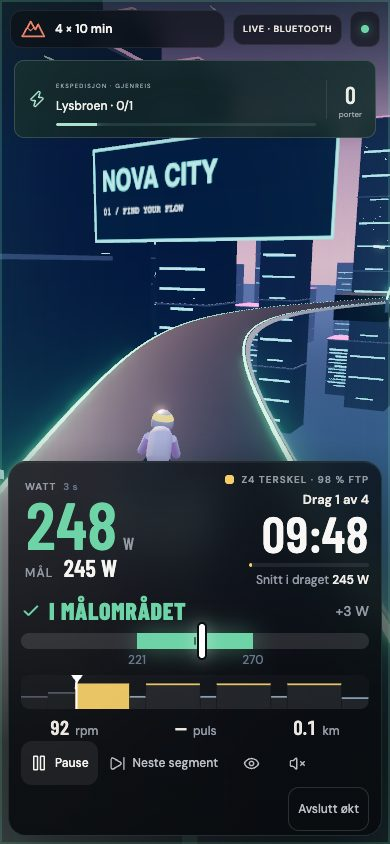
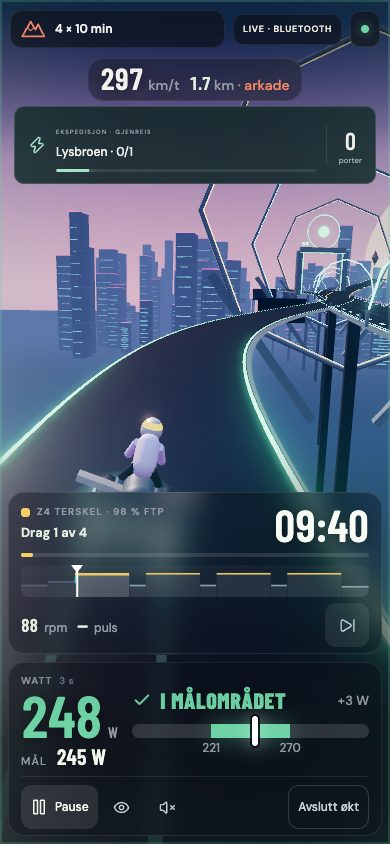
Final cockpit layout, ride-action smoke test and refreshed screenshots
- Interval actions (next segment, done warming up, ramp exhaustion) moved to
  the interval panel; the left toolbar keeps pause, view and end controls.
- Graph: neutral blocks with zone caps so the zone-coloured trace reads; no
  olive fills. Phone layout compressed to keep the scene visible.
- Tests: sensor-smoke reads distance from the speed capsule; expedition and
  Vestland smokes wait for asynchronous IndexedDB/API persistence; new
  ride-actions smoke covers discard and delete end to end.
- README, screenshots and social preview show the new cockpit.

diff --git a/src/cockpit.css b/src/cockpit.css
@@ -207,7 +207,7 @@
 .cockpit-graph svg { display: block; width: 100%; height: 100%; }
 .cockpit-graph .block-body { fill: #ffffff; fill-opacity: 0.08; transition: fill-opacity 0.4s; }
 .cockpit-graph .past .block-body { fill-opacity: 0.04; }
-.cockpit-graph .now .block-body { fill-opacity: 0.55; }
+.cockpit-graph .now .block-body { fill-opacity: 0.2; }
 .cockpit-graph .block-cap { opacity: 0.95; }
 .cockpit-graph .past .block-cap { fill: #5d6879; opacity: 0.8; }
 .graph-trace { fill: none; stroke-width: 2px; stroke-linejoin: round; stroke-linecap: round; filter: drop-shadow(0 0 2px rgba(0, 0, 0, 0.5)); }
@@ -218,6 +218,16 @@
 }
 
 /* metrics + controls */
+/* Interval actions live with the interval: right panel, above the metrics. */
+.cockpit .hud-actions { display: flex; justify-content: flex-end; gap: 6px; margin-top: 8px; }
+.cockpit .hud-actions:empty { display: none; }
+.cockpit .hud-actions > button {
+  display: inline-flex; align-items: center; gap: 7px; min-height: 40px; padding: 0 12px; border-radius: 11px;
+  font: 500 13px "DM Sans", sans-serif; color: #c5ced8; background: rgba(255, 255, 255, 0.08); white-space: nowrap;
+}
+.cockpit .hud-actions > button:hover { background: rgba(255, 255, 255, 0.14); color: #fff; }
+.cockpit .hud-actions > .warmup-skip { background: rgba(244, 132, 104, 0.16); color: var(--accent); }
+.cockpit .hud-actions > button.ramp-exhaustion { color: #141820; background: #f6a18b; font-weight: 750; min-height: 48px; }
 .cockpit .secondary-metrics { display: flex; align-items: baseline; gap: 16px; margin-top: 8px; font: 500 12px "DM Sans", sans-serif; color: var(--hud-muted); white-space: nowrap; }
 .cockpit .secondary-metrics b { font: 600 21px "Barlow Condensed", sans-serif; color: #e3eedf; margin-right: 3px; font-variant-numeric: tabular-nums; }
 .cockpit .ride-toolbar { display: flex; align-items: center; gap: 2px; margin-top: 10px; padding-top: 8px; border-top: 1px solid rgba(255, 255, 255, 0.08); transition: opacity 0.3s; }
@@ -231,7 +241,6 @@
 .cockpit .ride-toolbar > button:hover,
 .cockpit .ride-detail > summary:hover { background: rgba(255, 255, 255, 0.1); color: #fff; }
 .cockpit .ride-toolbar > .console-pause { background: rgba(255, 255, 255, 0.1); color: #f2f9ec; }
-.cockpit .ride-toolbar > .warmup-skip { background: rgba(244, 132, 104, 0.16); color: var(--accent); }
 .cockpit .ride-toolbar > .end-ride { border: 1px solid rgba(255, 255, 255, 0.16); }
 .cockpit .ride-toolbar > button[aria-pressed="true"] { color: var(--accent); background: rgba(244, 132, 104, 0.12); }
 .cockpit .ride-detail { position: relative; }
@@ -330,7 +339,7 @@
   .cockpit-next { display: none !important; }
   .cockpit .metric-wide { display: none; }
   .cockpit .ride-toolbar > button span { display: none; }
-  .cockpit .ride-toolbar > .warmup-skip span, .cockpit .ride-toolbar > .console-pause span { display: inline; }
+  .cockpit .ride-toolbar > .console-pause span { display: inline; }
 }
 
 /* ---------- phone ---------- */
@@ -367,7 +376,8 @@
   .cockpit .secondary-metrics b { font-size: 18px; }
   .cockpit .ride-toolbar { flex-wrap: wrap; gap: 2px; opacity: 1; margin-top: 8px; }
   .cockpit .ride-toolbar > button, .cockpit .ride-detail > summary { padding: 0 9px; font-size: 12px; }
-  .cockpit .ride-toolbar > .warmup-skip { order: 9; flex-basis: 100%; min-height: 40px; }
+  .cockpit .hud-actions { justify-content: stretch; }
+  .cockpit .hud-actions > button { flex: 1; justify-content: center; min-height: 44px; }
   .cockpit .ride-toolbar > button[aria-label="Fullskjerm"], .cockpit .ride-detail { display: none; }
   .cockpit .console-spacer { display: none; }
   .cockpit .ride-toolbar > .end-ride { margin-left: auto; }
@@ -375,10 +385,25 @@
   .speed-capsule strong, .speed-capsule.arcade strong { font-size: 30px; }
   .speed-capsule .hud-distance b { font-size: 18px; }
 
+  /* Phone: the interval panel collapses to one dense row set; the scene keeps as much height as possible. */
+  .cockpit .hud-right { display: grid; grid-template-columns: minmax(0, 1fr) auto; column-gap: 8px; align-items: center; }
+  .cockpit .hud-right > .hud-interval, .cockpit .hud-right > .cockpit-graph { grid-column: 1 / -1; }
+  .cockpit .hud-right > .hud-actions { grid-column: 2; grid-row: 3; margin-top: 6px; }
+  .cockpit .hud-right > .secondary-metrics { grid-column: 1; grid-row: 3; justify-content: flex-start; margin-top: 6px; }
+  .cockpit .hud-actions > button { flex: none; min-height: 44px; min-width: 44px; padding: 0 10px; justify-content: center; }
+  .cockpit .hud-actions > .skip-segment span { display: none; }
+  .cockpit .hud-interval { grid-template-columns: 1fr; }
+  .cockpit .interval-focus { display: grid; grid-template-columns: minmax(0, 1fr) auto; column-gap: 10px; }
+  .cockpit .interval-focus > .cockpit-eyebrow, .cockpit .interval-focus > .interval-label { grid-column: 1; }
+  .cockpit .interval-focus > strong { grid-column: 2; grid-row: 1 / span 2; align-self: center; }
+  .cockpit .interval-focus > .block-progress, .cockpit .interval-focus > small { grid-column: 1 / -1; }
+  .cockpit .interval-focus > .lap-average { display: none; }
+  .app.is-riding .expedition-hud, .app.is-riding .classic-progress { top: 106px; }
+  .app.is-riding .expedition-choice { top: 106px; }
   .cockpit-countdown { top: 34%; }
   .cockpit-countdown strong { font-size: 128px; }
   .cockpit-countdown b { font-size: 36px; }
-  .lap-receipt { top: 104px; left: 10px; right: 10px; transform: none; padding: 10px 14px 10px 10px; gap: 12px; animation-name: lap-in-mobile; }
+  .lap-receipt { top: 106px; left: 10px; right: 10px; transform: none; padding: 10px 14px 10px 10px; gap: 12px; animation-name: lap-in-mobile; }
   .lap-receipt strong { font-size: 22px; }
   .lap-receipt em { display: none; }
   .lap-receipt > b { font-size: 26px; padding-left: 12px; margin-left: auto; }

diff --git a/src/RideConsole.tsx b/src/RideConsole.tsx
@@ -66,8 +66,8 @@ function WorkoutGraph({ workout, samples, ftp, progress, index }: { workout: Wor
         const w = Math.max(gap, block.seconds - gap), state = i < index ? 'past' : i === index ? 'now' : 'future';
         // Neutral bodies with a zone-coloured cap: low-opacity zone fills turn muddy on dark glass.
         return <g key={i} className={state}>
-          <rect x={starts[i]} y={100 - h} width={w} height={h} className="block-body" style={state === 'now' ? { fill: zoneColor(block.intensity) } : undefined} />
-          {state !== 'now' && <rect x={starts[i]} y={100 - h} width={w} height={Math.min(h, 5)} className="block-cap" fill={zoneColor(block.intensity)} />}
+          <rect x={starts[i]} y={100 - h} width={w} height={h} className="block-body" />
+          <rect x={starts[i]} y={100 - h} width={w} height={Math.min(h, state === 'now' ? 8 : 5)} className="block-cap" fill={zoneColor(block.intensity)} />
         </g>;
       })}
       {trace && <path d={trace} className="graph-trace" style={{ stroke: `url(#${gradientId})` }} vectorEffect="non-scaling-stroke" />}
@@ -179,9 +179,6 @@ export default function RideConsole({ workout, current, elapsed, skippedSeconds,
         </div>
         <div className="ride-toolbar">
           <button onClick={onPause} className="console-pause">{running ? <Pause size={18} /> : <Play size={18} />}<span>{running ? 'Pause' : 'Fortsett'}</span></button>
-          {!rampStatus && <button onClick={onSkip}><SkipForward size={17} /><span>Neste segment</span></button>}
-          {rampStatus && block.kind==='work' && !rampStatus.ended && <button onClick={onSkip} className="ramp-exhaustion" disabled={!running}>Jeg klarer ikke mer</button>}
-          {!rampStatus && block.kind === 'warmup' && <button onClick={onWarmup} className="warmup-skip"><Check size={16} /><span>Jeg er ferdig oppvarmet</span></button>}
           <div className="console-spacer" />
           <button onClick={onFocus} aria-pressed={focus} aria-label={focus ? 'Vis spillpaneler' : 'Fokusmodus'} title="Fokusmodus (H)">{focus ? <EyeOff size={17} /> : <Eye size={17} />}</button>
           <button onClick={onSound} aria-label={sound ? 'Slå av lyd' : 'Slå på lyd'}>{sound ? <Volume2 size={17} /> : <VolumeX size={17} />}</button>
@@ -218,6 +215,11 @@ export default function RideConsole({ workout, current, elapsed, skippedSeconds,
           </div>
         </div>
         <WorkoutGraph workout={workout} samples={samples} ftp={ftp} progress={current.progress} index={current.index} />
+        <div className="hud-actions">
+          {!rampStatus && block.kind === 'warmup' && <button onClick={onWarmup} className="warmup-skip"><Check size={16} /><span>Jeg er ferdig oppvarmet</span></button>}
+          {!rampStatus && <button onClick={onSkip} className="skip-segment" aria-label="Neste segment"><SkipForward size={17} /><span>Neste segment</span></button>}
+          {rampStatus && block.kind==='work' && !rampStatus.ended && <button onClick={onSkip} className="ramp-exhaustion" disabled={!running}>Jeg klarer ikke mer</button>}
+        </div>
         <div className="secondary-metrics">
           <span><b>{cadence ?? '—'}</b> rpm</span>
           <span><b>{heartRate && heartRate > 0 ? heartRate : '—'}</b> puls</span>

diff --git a/index.html b/index.html
@@ -19,7 +19,7 @@
     <meta property="og:image" content="https://summit-sykkel.vercel.app/og.jpg" />
     <meta property="og:image:width" content="1200" />
     <meta property="og:image:height" content="630" />
-    <meta property="og:image:alt" content="SUMMIT-cockpiten på Vestlandsveien: 249 watt, i målområdet midt i et terskeldrag." />
+    <meta property="og:image:alt" content="SUMMIT-cockpiten på Vestlandsveien: 248 watt, i målområdet midt i et terskeldrag, sett fra styret." />
     <meta name="twitter:card" content="summary_large_image" />
     <meta name="twitter:title" content="SUMMIT – intervalltrening på sykkel, rett i nettleseren" />
     <meta name="twitter:description" content="100 strukturerte økter med wattmål fra din FTP. Koble til Bluetooth-sykkelen i Chrome eller Edge og sykle. Gratis, uten konto." />

diff --git a/README.md b/README.md
@@ -1,6 +1,6 @@
 <div align="center">
 
-<img src="docs/screenshots/hero-vestland.jpg" alt="SUMMIT ride cockpit on Vestlandsveien, a fjord road rendered in real time" width="100%">
+<img src="docs/screenshots/hero-vestland.jpg" alt="SUMMIT on Vestlandsveien: handlebar view with the training panels at the edges" width="100%">
 
 # SUMMIT
 
@@ -21,7 +21,10 @@ It is built for bikes without automatic resistance control as well as smart trai
 - Power as a 3-second average, next to a ±10 % target band. Instead of a raw number to interpret, it tells you what to do: *Øk 24 W* (push 24 W) or *Senk 18 W* (ease off 18 W).
 - The screen edge glows green, blue or amber, so you know whether you are on target without looking at the numbers.
 - Big 3‑2‑1 countdown with the next target, a short receipt after every completed interval, and the whole plan drawn with your actual power on top.
-- Focus mode (`H`) hides every game element and leaves only the training.
+- Two transparent glass panels sit at the screen edges, so the centre stays free for the road, the bike and the handlebar.
+- Speed and distance at the top. Speed follows watts relative to FTP with real inertia: a surge is felt as acceleration, easing off rolls out.
+- **Automatic resistance (ERG)** for smart trainers that support FTMS control: the target changes at every block, never every second, and switches off safely on pause or disconnect.
+- Focus mode (`H`) hides every game element and leaves only the training. A ride can be discarded without saving.
 
 **Training**
 - 100 structured workouts across recovery, endurance, tempo, sweet spot, threshold, VO₂max, anaerobic and sprint.
@@ -32,7 +35,8 @@ It is built for bikes without automatic resistance control as well as smart trai
 - A full-page report: an honest one-line verdict, normalized power, IF and TSS calculated from measured watts, and an interactive power chart coloured by training zone.
 - One card per interval, plus pacing feedback (*"power dropped 6 points from the first to the last interval"*).
 - Weekly load for the last eight weeks, rolling 28-day comparison, and a mean-maximal power curve from 5 s to 60 min.
-- FIT export through Garmin's official SDK, plus CSV and JSON.
+- FIT export through Garmin's official SDK (encoded in the browser), plus CSV and JSON.
+- A share card (1080×1350 image) for Strava or Instagram, and rides can be deleted from their report.
 
 **Worlds**
 - Seven real-time 3D worlds in Three.js with WebGPU and automatic WebGL2 fallback:
@@ -41,21 +45,22 @@ It is built for bikes without automatic resistance control as well as smart trai
   - **Neon Rush:** a hover-bike city.
   - **Skybound:** floating islands.
   - **Three classic fjord routes.**
+- Road worlds keep believable speeds (about 40 km/h at FTP). The futuristic worlds run on arcade speed: about 300 km/h at FTP and far beyond in a sprint, with a widening field of view and a camera that pulls back as you surge. Arcade speed is presentation only; the ride stores virtual distance from watts.
 - The game layer follows the training plan. Rewards come only from seconds within the target, including during recovery. Riding harder than prescribed earns nothing extra.
 
 **Data you can trust**
 - Skipped time never counts as ridden.
 - Data gaps stay gaps; they are never filled with zeros or approved seconds.
 - Demo rides are clearly labelled and never count towards records, FTP or progression.
-- Rides are stored locally (browser storage plus a local SQLite database). Training data is never sent anywhere.
+- Rides are stored on your device: IndexedDB in the browser, plus a local SQLite database when the optional Node backend runs. Training data is never sent anywhere. Backup and import are one click.
 - The hosted version counts a few anonymous, cookie-free usage events (bucketed, no IDs, no watts or FTP), explained under *Personvern* in the app. Local and development builds send nothing.
 
 ## Screenshots
 
 | | |
 |---|---|
-| <img src="docs/screenshots/cockpit-tron.jpg" alt="On target in The Grid"> | <img src="docs/screenshots/cockpit-under.jpg" alt="Below target: the cue says push 49 W"> |
-| **On target.** Green band, green number, calm edge glow. | **Below target.** The cue tells you exactly how much to add. |
+| <img src="docs/screenshots/cockpit-tron.jpg" alt="On target in The Grid at 297 km/h arcade speed"> | <img src="docs/screenshots/cockpit-surge.jpg" alt="A surge to 380 W: 529 km/h and the cue says ease off 135 W"> |
+| **On target.** Green band, green number, calm edge glow; arcade speed at the top. | **A surge.** 380 W launches The Grid past 500 km/h, and the cue still tells you to ease off. |
 | <img src="docs/screenshots/report-chart.jpg" alt="Interactive power chart in the ride report"> | <img src="docs/screenshots/progress.jpg" alt="Weekly load and power curve"> |
 | **Ride report.** Zone-coloured power against the target band; hover any second. | **Progress.** Weekly TSS, rolling load and a mean-max power curve. |
 | <img src="docs/screenshots/world-neon.jpg" alt="Neon Rush"> | <img src="docs/screenshots/world-sky.jpg" alt="Skybound"> |
@@ -87,12 +92,13 @@ npm start          # http://127.0.0.1:3001
 
 | | Supported |
 |---|---|
-| **Bluetooth profiles** | FTMS Indoor Bike Data, Cycling Power, Heart Rate |
+| **Bluetooth profiles** | FTMS Indoor Bike Data and Control Point (ERG), Cycling Power (incl. crank cadence), Cycling Speed and Cadence, Heart Rate |
 | **ANT+** | Power and heart rate via a USB stick and the local Node bridge |
 | **Browsers** | Chrome, Edge and other Chromium browsers on Windows, macOS, Linux, ChromeOS and Android |
-| **Not supported** | Safari and every iOS browser (no Web Bluetooth in WebKit), Firefox |
+| **iPhone and iPad** | Through a Web Bluetooth browser such as Bluefy; Safari itself has no Web Bluetooth |
+| **Not supported** | Firefox, older proprietary trainer protocols (shown as "known, not supported yet" on the device check page) |
 
-The app reads data and does not yet control resistance; you adjust it on the bike. Watts and cadence over Bluetooth have been confirmed on a 2019 Xebex console. Other hardware paths are covered by protocol-level tests with simulated devices.
+**Test sykkelen din** (test your bike) lists what a device exposes, shows live values, runs a short ERG test on capable trainers and ends with a plain verdict. Watts and cadence over Bluetooth have been confirmed on a 2019 Xebex console. ERG and the other profiles are covered by protocol-level tests with simulated devices; they have not yet been tried on physical smart trainers.
 
 ## How it works
 
@@ -133,14 +139,14 @@ node scripts/sensor-smoke.mjs    # simulated BLE bike + HR, SQLite, FIT round tr
 node scripts/ui-smoke.mjs        # UI flows against a running dev server
 ```
 
-Nine browser smoke suites (UI, sensors, ramp test, builder, expeditions, journeys, gameplay, Vestlandsveien, The Grid) drive the real app with Playwright. They use isolated, mocked APIs and temporary databases, so personal ride data is never touched.
+Twelve browser smoke suites (UI, sensors, ERG, ramp test, static hosting, builder, expeditions, journeys, gameplay, Vestlandsveien, The Grid) drive the real app with Playwright. They use isolated, mocked APIs and temporary databases, so personal ride data is never touched.
 
 ## Roadmap
 
-- **Resistance control** via the FTMS control point: ERG mode for workouts and slope simulation for the worlds.
-- **Fully in-browser hosting:** IndexedDB storage, in-browser FIT encoding, installable PWA and screen wake lock.
-- **More sensors:** speed/cadence sensors with clearly labelled estimated power, and a "test your bike" compatibility page.
-- **iPad and iPhone** through Web Bluetooth browsers such as Bluefy, and later a native wrapper.
+- **Slope simulation** in the road worlds through FTMS (the control path exists; the worlds do not drive it yet).
+- **Verification on physical smart trainers** (Wahoo, Tacx, Elite) and on iPad with Bluefy.
+- **Clearly labelled estimated power** for speed/cadence-only setups.
+- **A native iPad/iPhone wrapper** if the browser route proves too limiting.
 
 ## Status
 
